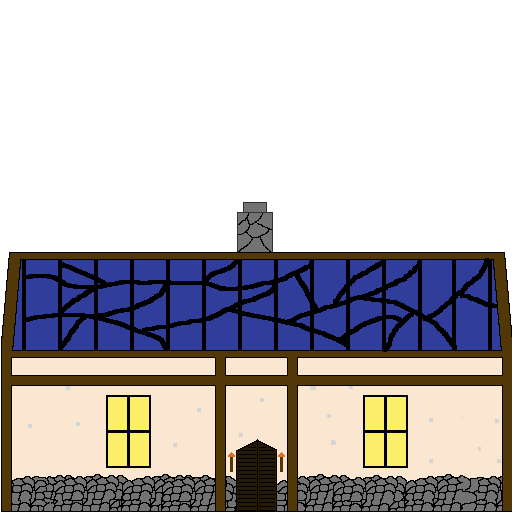
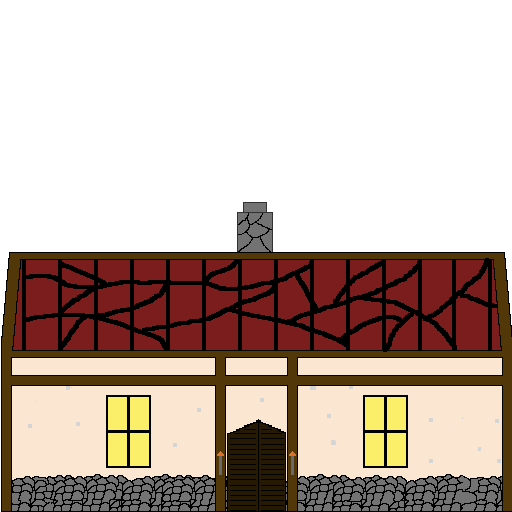
Level 2 is done and implemented, thank fwicking gowd

Changed region(s): [[0.0, 0.5, 1.0, 0.6875], [0.4062, 0.8125, 0.5938, 1.0]]

diff --git a/Scripts/CharacterSelect.cs b/Scripts/CharacterSelect.cs
@@ -28,7 +28,6 @@ public partial class CharacterSelect : Control
 
 		characterOptionButton.ItemSelected += OnCharacterSelected;
 		levelOptionButton.ItemSelected += OnLevelSelected;
-
 		confirmButton.Pressed += OnConfirmPressed;
 		backButton.Pressed += OnBackPressed;
 	}
@@ -45,6 +44,19 @@ public partial class CharacterSelect : Control
 		levelOptionButton.Clear();
 
 		levelOptionButton.AddItem("Level 1");
+		
+		// TODO: Unlock Level 2 after beating Level 1
+		// Uncomment when unlock system is ready:
+		// PlayerSaveData saveData = GetNode<PlayerSaveData>("/root/PlayerSaveData");
+		// if (saveData.hasCompletedLevel1)
+		// {
+		//     levelOptionButton.AddItem("Level 2");
+		// }
+
+
+		// For now add Level 2 always for testing
+		levelOptionButton.AddItem("Level 2");
+		
 	}
 
 	private void OnCharacterSelected(long index)
@@ -72,6 +84,11 @@ public partial class CharacterSelect : Control
 			// No level image yet, so leave this blank for now.
 			levelPreviewTexture.Texture = null;
 		}
+		
+		if(selectedLevel == "Level 2"){
+			
+			levelPreviewTexture.Texture = null;
+		}
 	}
 
 	private void OnConfirmPressed()
@@ -82,7 +99,15 @@ public partial class CharacterSelect : Control
 		GD.Print("Selected character: " + selectedCharacter);
 		GD.Print("Selected level: " + selectedLevel);
 
-		GetTree().ChangeSceneToFile("res://Scenes/Level2.tscn");
+		switch (selectedLevel)
+		{
+			case "Level 1":
+				GetTree().ChangeSceneToFile("res://Scenes/Level1.tscn");
+				break;
+			case "Level 2":
+				GetTree().ChangeSceneToFile("res://Scenes/Level2.tscn");
+				break;
+		}
 	}
 
 	private void OnBackPressed()

diff --git a/Scripts/CharacterScripts/PlayerSaveData.cs b/Scripts/CharacterScripts/PlayerSaveData.cs
@@ -6,6 +6,7 @@ public partial class PlayerSaveData : Node
 	
 	public IceWizardStats.UltimateAbility activeUltimate = IceWizardStats.UltimateAbility.None;
 	
+	public bool hasCompletedLevel1 = false;
 	
 	// Ice Wizard unlocks
 	public bool hasMultiShot = false;
